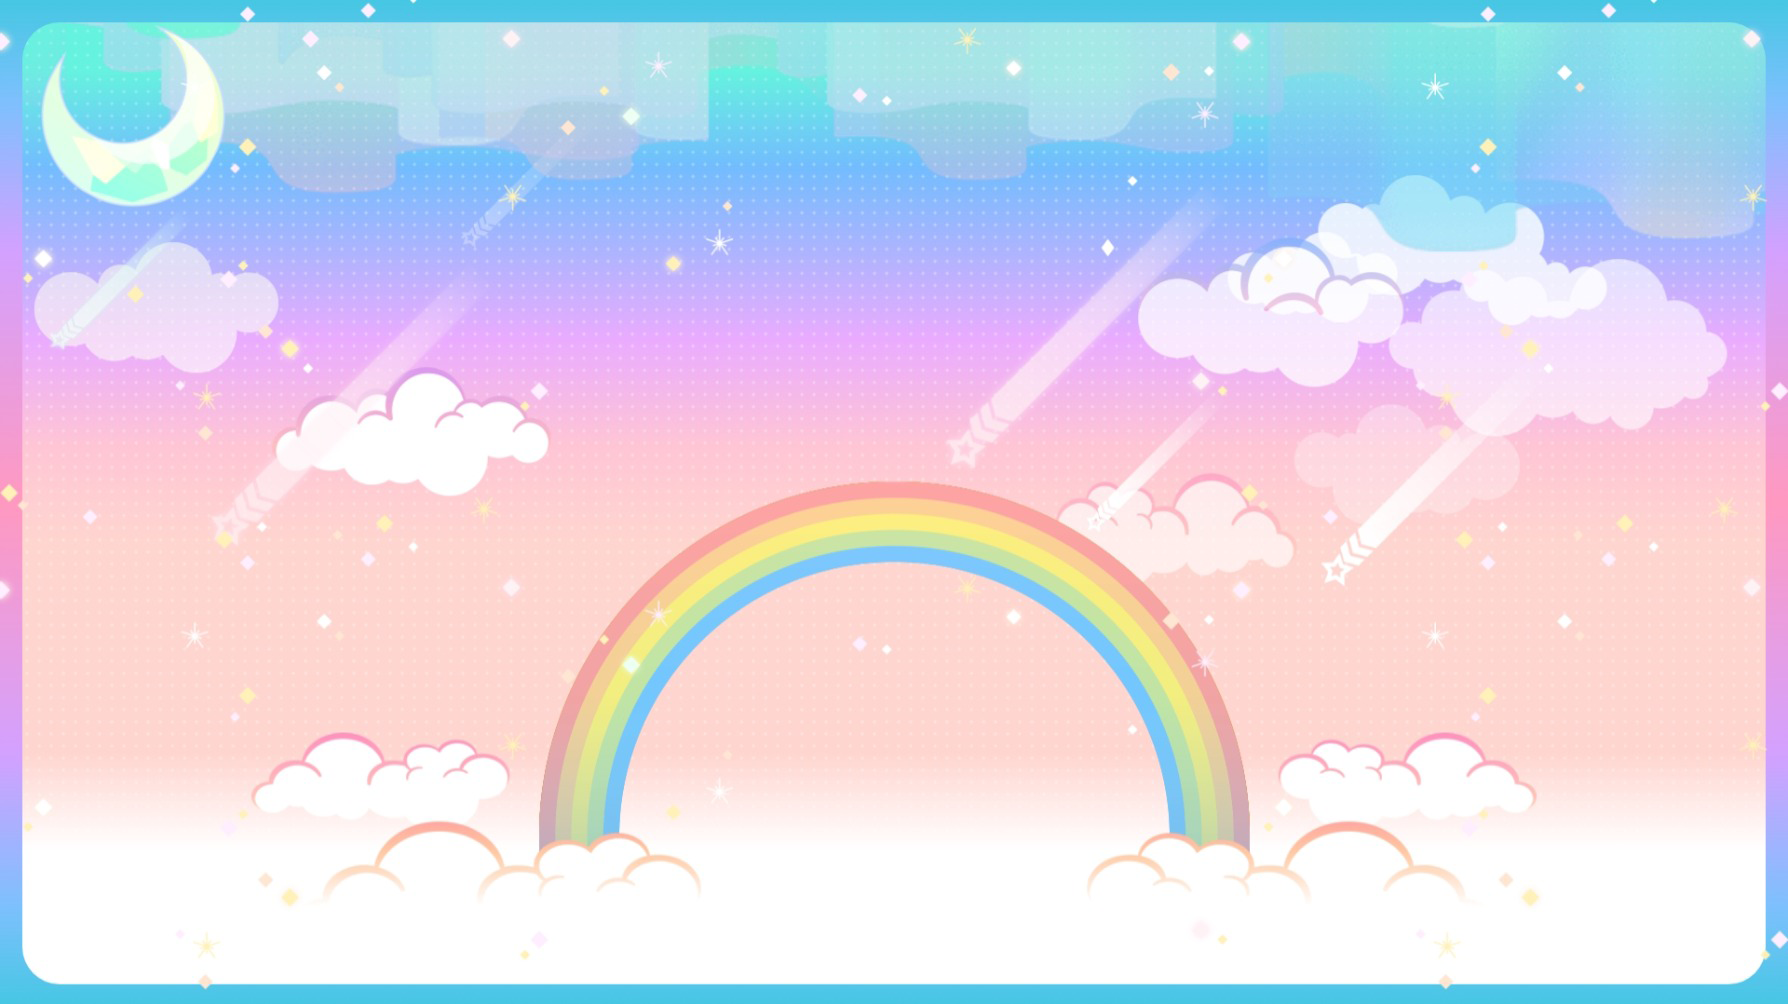
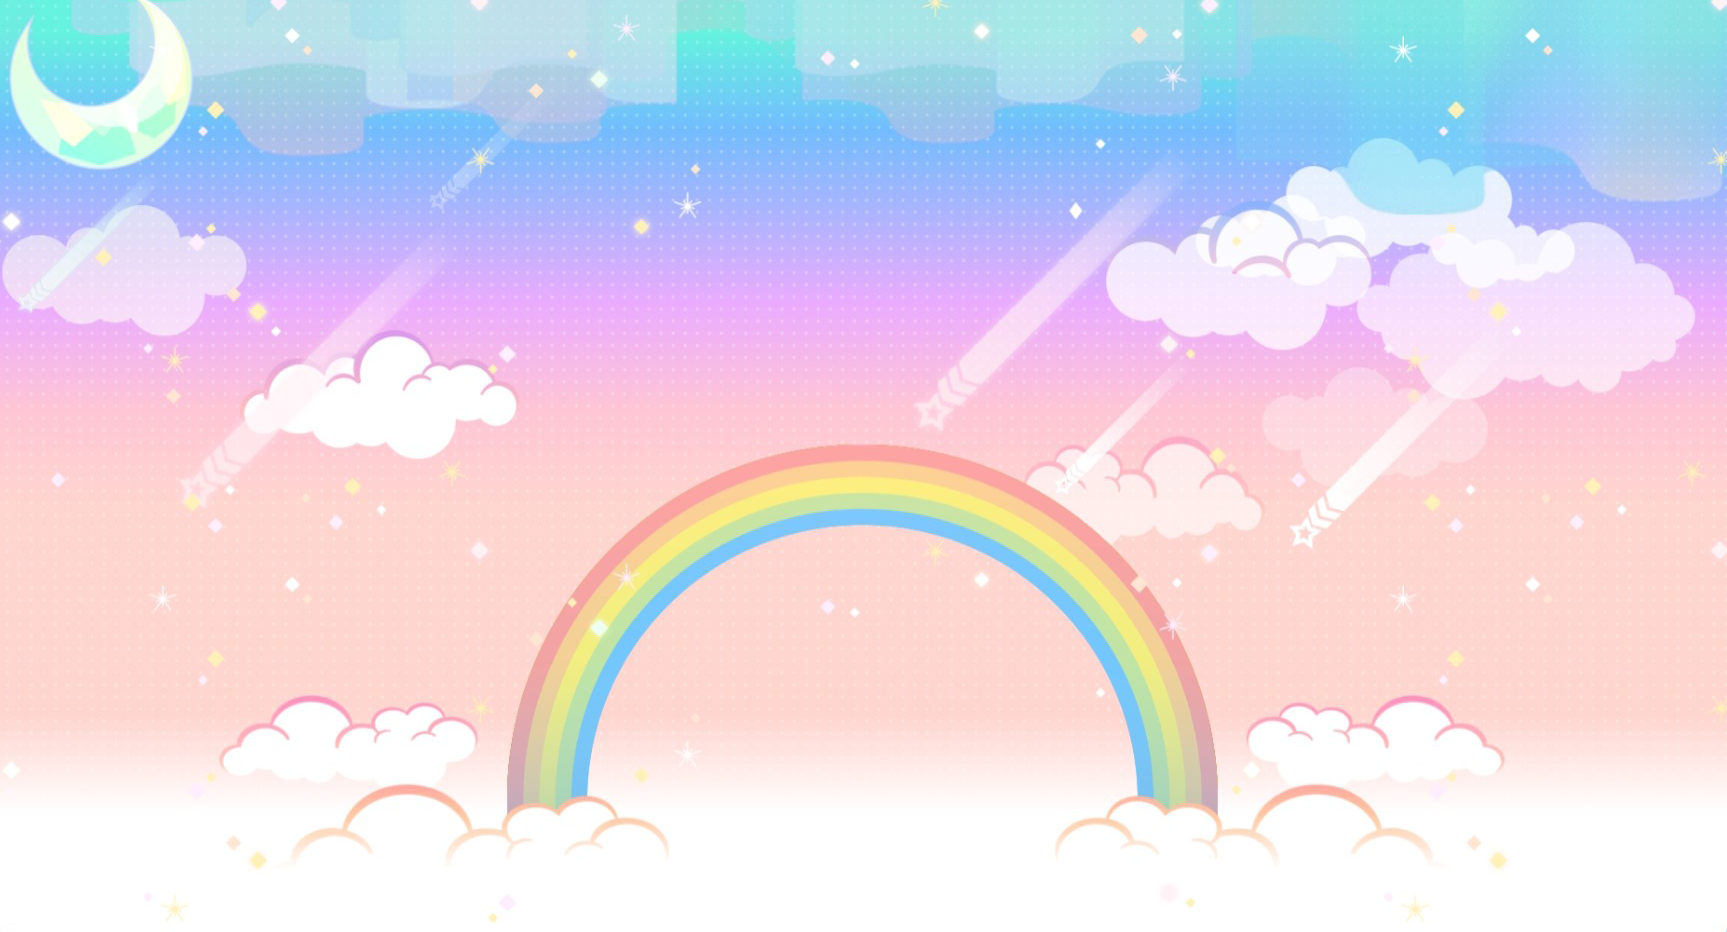
fix: fixed bg on ios-mobile

diff --git a/app/page.tsx b/app/page.tsx
@@ -13,6 +13,7 @@ import LoadingScreen from "@/components/loading-screen"
 import HelpModal from "@/components/help-modal"
 import { useToast } from "@/components/ui/use-toast"
 import RoomStatus from "@/components/room-status"
+import FixedBg from "@/components/fixed-bg";
 
 export default function Home() {
     const [mode, setMode] = useState<"menu" | "singleplayer" | "multiplayer-lobby" | "multiplayer-game">("menu")
@@ -23,6 +24,17 @@ export default function Home() {
     const [showHelp, setShowHelp] = useState(false)
     const [refreshing, setRefreshing] = useState(false)
     const { toast } = useToast()
+
+    useEffect(() => {
+        const setVH = () => {
+            const vh = window.innerHeight * 0.01;
+            document.documentElement.style.setProperty('--vh', `${vh}px`);
+        };
+        setVH();
+        window.addEventListener('resize', setVH);
+        return () => window.removeEventListener('resize', setVH);
+    }, []);
+
 
     // Load data only once on mount
     useEffect(() => {
@@ -90,17 +102,23 @@ export default function Home() {
     }
 
     if (loading) {
+
         return (
-            <main className="min-h-screen py-12 px-6 bg-[url('/bg.png')] bg-cover bg-center bg-fixed bg-no-repeat flex flex-col items-center justify-center">
+        <>
+            <FixedBg />
+            <main className="min-h-[calc(var(--vh)*100)] py-12 px-6 bg-transparent flex flex-col items-center justify-center">
                 <div className="w-full max-w-6xl">
                     <LoadingScreen />
                 </div>
             </main>
+        </>
         )
     }
 
     return (
-        <main className="min-h-screen py-16 px-6 bg-[url('/bg.png')] bg-cover bg-center bg-fixed bg-no-repeat flex flex-col items-center justify-center">
+        <>
+        <FixedBg />
+        <main className="min-h-[calc(var(--vh)*100)] py-16 px-6 bg-transparent flex flex-col items-center justify-center">
             <div className="w-full max-w-6xl">
                 {mode === "menu" && (
                     <div className="w-full mx-auto bg-white rounded-xl shadow-lg overflow-hidden">
@@ -222,5 +240,6 @@ export default function Home() {
             </div>
             {showHelp && <HelpModal onClose={() => setShowHelp(false)} />}
         </main>
+    </>
     )
 }

diff --git a/components/fixed-bg.tsx b/components/fixed-bg.tsx
@@ -1,0 +1,12 @@
+// components/fixed-bg.tsx
+export default function FixedBg() {
+    return (
+        <div
+            className="
+        fixed inset-0 -z-10
+        bg-[url('/bg.png')] bg-cover bg-center bg-no-repeat
+        pointer-events-none   /* keeps it untouchable */
+      "
+        />
+    );
+}
